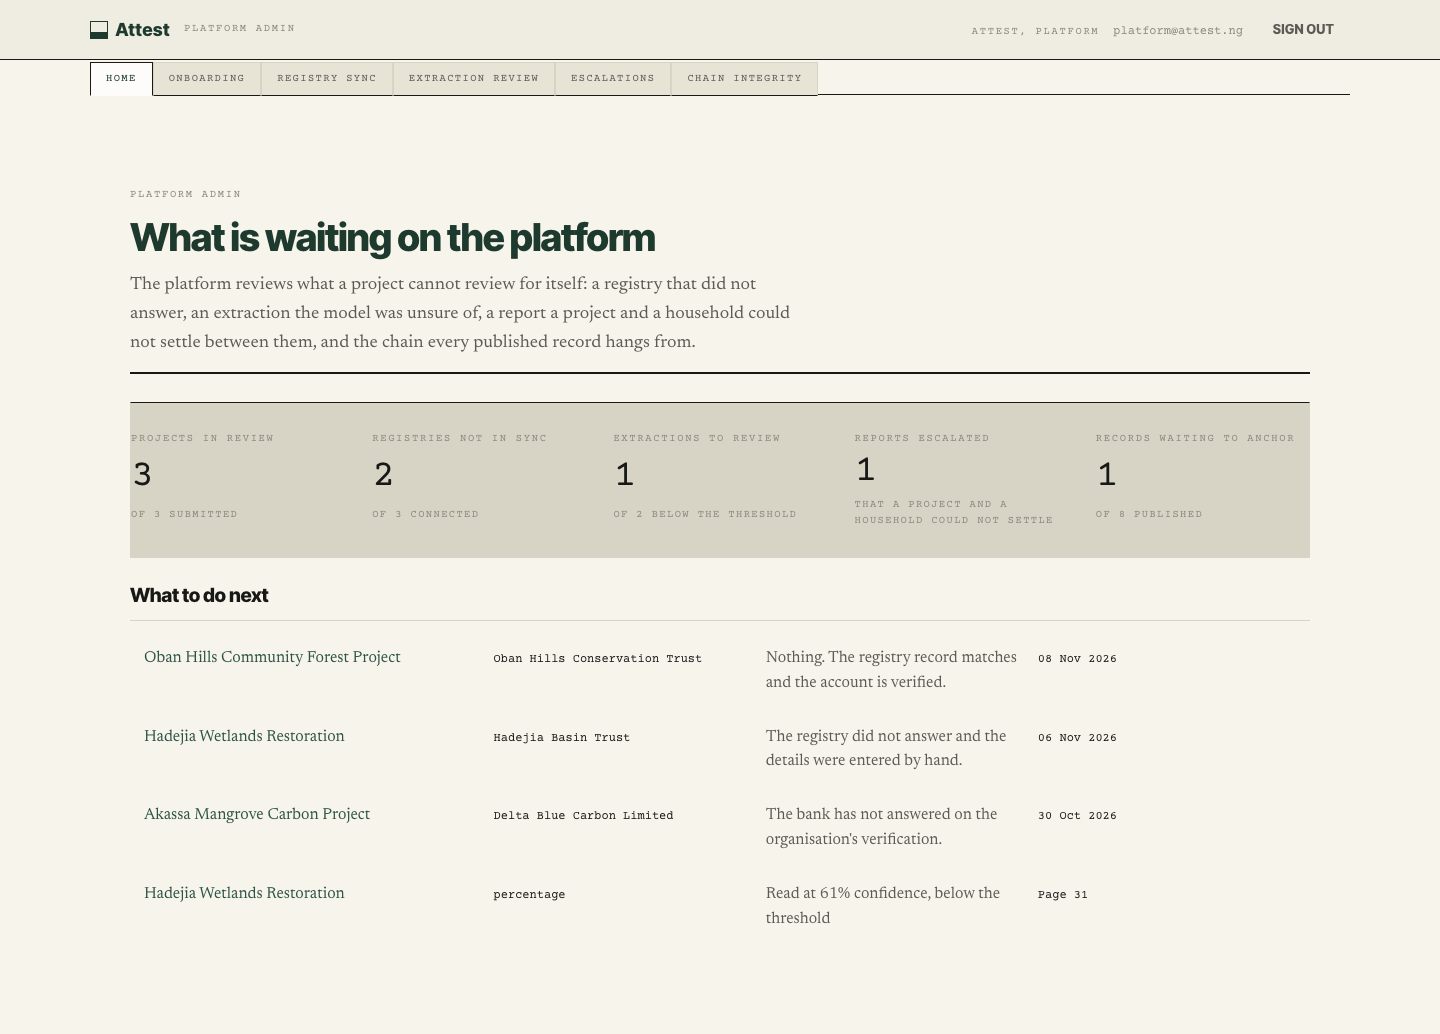
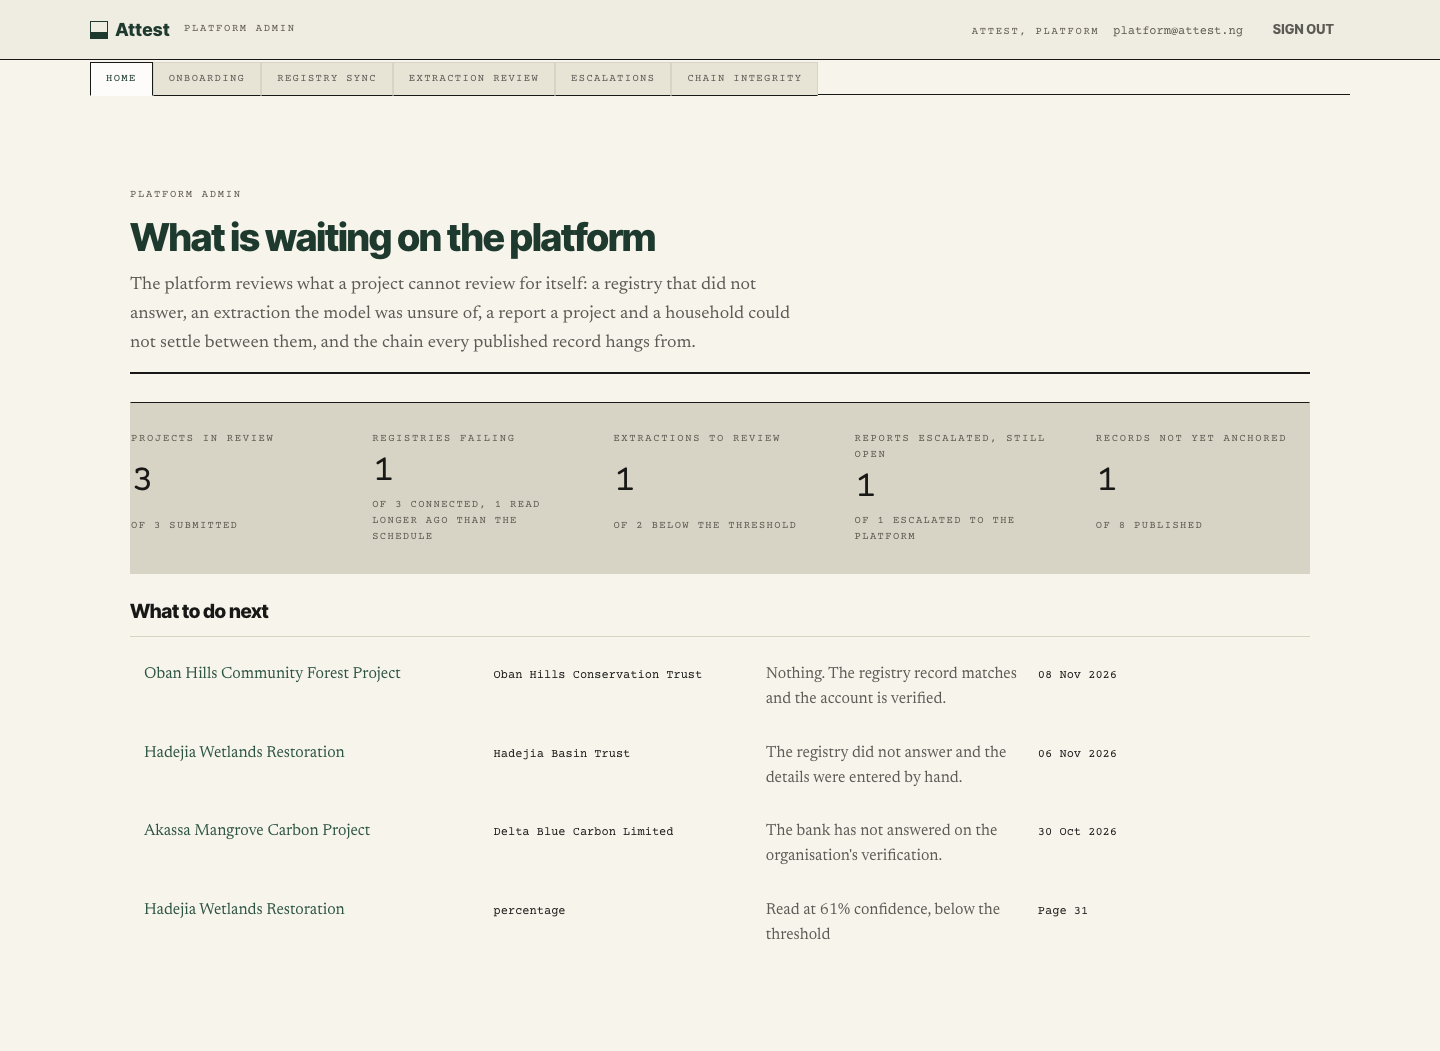
Record F-9's two remediations, 66 of 66
The first verification found fourteen things, chief among them an admin
surface with no controls and a home screen that rendered five refusals as an
all-clear. The second verification, run against the remediation, found
eighteen more — including a focus trap the remediation itself introduced and
the axe filter that had hidden forty serious contrast failures since F-0.
Both rounds are written up in full, the forced chain states are photographed,
and the gate stands at 66 assertions, 130 heavier than the day the phases
first passed it.

diff --git a/verification/index.html b/verification/index.html
@@ -23,7 +23,10 @@
   /* ---- Ink -------------------------------------------------------------- */
   --ink-primary: #181816;
   --ink-muted: #5C5A55;
-  --ink-dim: #8C887E;
+  /* Dim ink that still reads: 4.62:1 on the sunken fill, 6.24:1 on paper.
+     The previous #8C887E sat at 2.38:1 on the sunken fill, which failed WCAG
+     on every eyebrow and every figure's denominator in the product. */
+  --ink-dim: #5E5A52;
   --ink-paper: #F7F4EB; /* ink reversed out on bottle */
 
   /* ---- Bottle green, the anchor tone ------------------------------------ */
@@ -887,12 +890,24 @@ header.sheet { padding-block: var(--section); }
           <h2>Platform admin and hardening</h2>
         </div>
         <p class="gate gate-passed">
-          50 passed, 0 failed in 162.7s
+          66 passed, 0 failed in 214.0s
         </p>
       </div>
       <hr class="heavy" />
 
       <div class="grid">
+        <figure>
+          <a href="F-9/admin-chain-anchor-pending.png"><img src="F-9/admin-chain-anchor-pending.png" alt="/admin/chain/anchor/pending" loading="lazy" /></a>
+          <figcaption>/admin/chain/anchor/pending</figcaption>
+        </figure>
+        <figure>
+          <a href="F-9/admin-chain-anchor-unreachable.png"><img src="F-9/admin-chain-anchor-unreachable.png" alt="/admin/chain/anchor/unreachable" loading="lazy" /></a>
+          <figcaption>/admin/chain/anchor/unreachable</figcaption>
+        </figure>
+        <figure>
+          <a href="F-9/admin-chain-discontinuity.png"><img src="F-9/admin-chain-discontinuity.png" alt="/admin/chain/discontinuity" loading="lazy" /></a>
+          <figcaption>/admin/chain/discontinuity</figcaption>
+        </figure>
         <figure>
           <a href="F-9/admin-chain.png"><img src="F-9/admin-chain.png" alt="/admin/chain" loading="lazy" /></a>
           <figcaption>/admin/chain</figcaption>
@@ -906,8 +921,16 @@ header.sheet { padding-block: var(--section); }
           <figcaption>/admin/extraction</figcaption>
         </figure>
         <figure>
+          <a href="F-9/admin-nothing-was-read.png"><img src="F-9/admin-nothing-was-read.png" alt="/admin/nothing/was/read" loading="lazy" /></a>
+          <figcaption>/admin/nothing/was/read</figcaption>
+        </figure>
+        <figure>
           <a href="F-9/admin-onboarding.png"><img src="F-9/admin-onboarding.png" alt="/admin/onboarding" loading="lazy" /></a>
           <figcaption>/admin/onboarding</figcaption>
+        </figure>
+        <figure>
+          <a href="F-9/admin-one-queue-unread.png"><img src="F-9/admin-one-queue-unread.png" alt="/admin/one/queue/unread" loading="lazy" /></a>
+          <figcaption>/admin/one/queue/unread</figcaption>
         </figure>
         <figure>
           <a href="F-9/admin-registry.png"><img src="F-9/admin-registry.png" alt="/admin/registry" loading="lazy" /></a>

diff --git a/BUILD_LOG.md b/BUILD_LOG.md
@@ -62,8 +62,22 @@ end.
   code. Under 150 means a different stack for that one surface.
 - **The field app at desktop width** renders as a phone-width column rather
   than refusing outright. The phase says "never rendered on desktop".
-- **`--ink-dim` at 2.9:1**, the Farm Africa citation, the synthetic Gold
-  Standard reference, and the Privacy and Terms text.
+- **The Farm Africa citation**, the synthetic Gold Standard reference, and
+  the Privacy and Terms text. (`--ink-dim` was on this list as a contrast
+  decision; the second F-9 verification measured it at 2.38:1 on the sunken
+  fill and it is now `#5E5A52`, 4.62:1 — see below. If the lighter tone
+  mattered to you, that is the one visual change made without you.)
+- **Seven moderate advisories, all one package.** `npm audit` reports seven
+  moderate findings, every one of them GHSA-g3hv-75wg-m249 in `minimatch`
+  3.1.5. It reaches the tree only through `eslint` and `eslint-config-next`,
+  both of them devDependencies: the package is not in any build output and no
+  browser downloads it. The advisory is a regular-expression denial of
+  service against a caller that passes an attacker-controlled glob, and
+  nothing here passes a glob from outside the repository. It is carried
+  rather than fixed because the fix is an `eslint` major bump that would be
+  made for this reason alone, mid-build. The `f9` gate fails if an advisory
+  `npm audit` reports is not named here, and fails outright on anything
+  critical or high.
 - **Deployment, the backend swap and the demo recording**, all three waiting
   on the sandbox.
 
@@ -1564,3 +1578,148 @@ developer; every detail route in the product now carries the back control spec
 patch item 12 asks for; raw record identifiers and action codes are no longer
 reader-facing text; an unresolved exception reads as unresolved rather than as
 unknown; and the plurals hold.
+## F-9 — what the verification found, and what was done about it
+
+Fourteen findings. The gate had passed 50 of 50 and the verification failed
+the phase, which by now is the pattern: a gate asserts what a screen does and
+is blind to what it leaves out.
+
+**The admin surface was a set of lists.** Five queues an operator could read
+and not one control to decide anything: no way to approve a project or send it
+back, no way to accept or correct an extraction, no way to close an escalated
+report. The decisions exist now — `components/admin/ReviewDecision.tsx`, three
+endpoints behind them — and each is refused without its reason: twelve
+characters on a review, twenty-four on the basis a report closes on, which is
+what `DISPUTE_RESOLUTION_BASIS_REQUIRED` was always for. The queues moved to
+module scope in the mock so a decision survives the refresh that follows it; a
+corrected extraction keeps what the model read beside the correction, because
+that reading is the thing the queue exists to make checkable.
+
+**`/admin` reported an all-clear it had no basis for.** Every queue that
+refused was counted as zero, so five refusals rendered as a screen saying
+nothing is waiting — on the one screen whose whole job is to say whether
+anything is. Each figure now stands at an em rule where its queue did not
+answer, the screen says which queues those were, and the empty state
+distinguishes "nothing is waiting" from "nothing is listed, and some queues
+did not answer". "Reports escalated" had no denominator; it reads as open of
+escalated now.
+
+**The chain monitor could not show a break.** `/api/admin/chain` never read
+the forced state, so the one condition the screen exists to alert on was
+unreachable — and `/admin` was absent from `/dev/states` altogether, which is
+why nobody had noticed. The route honours it, the state panel carries twelve
+admin states, and the forced ones are photographed in `verification/F-9/`.
+
+**The sweeps were weaker than they read.**
+
+- The motion sweep could not see seconds. A stylesheet writing `0.25s` wrote
+  six frames in a unit the check had no pattern for, so the frame rule held
+  only over whichever half of the product happened to write milliseconds. It
+  also read `animation-iteration-count` for `infinite` alone, and a count of
+  three is a loop.
+- The copy sweep covered forty-five of the product's sixty-two routes and read
+  only rendered text, so an exclamation mark in an `aria-label` was outside
+  it. All sixty-two now, attributes included, and the verdict test requires
+  its negation within sixty characters of the word it negates rather than
+  anywhere in the sentence.
+- The state sweep counted buttons. It now reads each entry's own href and
+  checks the screen answers — a 404 only where the state is about something
+  missing.
+- The colour-only check read each stamp's glyph into a variable and never
+  looked at it, and never looked at strips at all. Both now. It found a
+  hand-rolled stamp in the live run grid carrying no glyph, and an agent above
+  the flag threshold whose row read "Active".
+- The demo path waited for one server-rendered settled row and called the
+  stream proven, and accepted the word "anchor" appearing anywhere on the
+  record — which the boilerplate below the figures satisfies. It clicks
+  through from the register now, waits for the settled count to rise, forces
+  the period closed, and reads the anchor's state and sequence from the record
+  itself.
+
+**And the smaller ones.** The modal announced itself with `aria-modal` and
+then let the tab key walk out into the page behind it: it moves the focus in,
+holds it, and gives it back now. The account graph had two hundred and
+twenty-five nodes and no tab stop, so the accounts the money moved into are a
+row of buttons beneath the drawing. The seven moderate advisories `npm audit`
+reports are written up under "What is waiting on you", and the gate fails if
+an advisory it reports is not named there. There is a check on the live
+build's own client chunks, because the source grep is a rule about what the
+code says and the bundle is what a browser downloads. And `tsconfig.json` —
+which every build with a custom `distDir` rewrites, and which has broken
+`tsc --noEmit` once per phase for most of this build — is restored by the
+gate after each build.
+
+Gate green, 58 of 58.
+
+## F-9 — the second verification, which failed the remediation
+
+A fresh verifier was pointed at the remediation and found eighteen things,
+four of them the kind that make the first remediation look like what it was:
+work checked by the person who did it.
+
+**The modal focus trap swallowed typed input.** The focus management added in
+the first remediation keyed its effect on an inline callback and a value that
+flips on the first keystroke, so it tore down and re-ran on every keystroke —
+and each re-run moved the focus back to the Close button. An operator
+freezing an account could type exactly one character of the reason. The
+effect is keyed on `open` alone now, reads its callbacks through refs, and
+puts the caret in the first field rather than on Close. The gate now opens a
+dialog, types a sentence, and checks the caret held.
+
+**"Axe-clean" was axe-filtered.** The gate kept only critical violations, and
+under that filter sat forty-odd serious contrast failures — every eyebrow and
+figure denominator in the product, at 2.38:1 on the sunken fill. `--ink-dim`
+is `#5E5A52` now (4.62:1 there, 6.24:1 on paper), sealed labels recede to it
+rather than to a rule colour at 1.9:1, the field shell's content is a `main`
+landmark, and the gate fails on serious as well as critical.
+
+**Ten of the 58 assertions asserted nothing.** `screenshot()` records an
+unconditional pass, so the four forced-state screenshots would have passed
+with the force broken. Each forced screenshot now asserts the marker the
+force exists to show — the break notice, the unread notice — before taking
+the picture.
+
+**The decisions had the right shape and the wrong plumbing.**
+
+- The approval's reason was required, recorded, shipped to the browser — and
+  shown nowhere; two copy strings pointed at each other instead. The reason
+  is on the row now, verbatim, with its date, and the contract declares the
+  fields it was leaking.
+- A returned project went back to "awaiting-review", stamping a submission
+  the platform had just read as one nobody had read. There is a `returned`
+  state.
+- Closing an escalation removed it from the screen in the same breath, so
+  the basis the operator was made to write was unreadable from the surface
+  that wrote it. Decided reports stay listed, closed, basis published.
+- The three controls used constant idempotency keys, so deciding again with
+  a different reason was refused as a duplicate forever. Keys are minted per
+  click, like every other mutating control in the product.
+- Extraction decisions were addressed by project alone; two uncertain
+  extractions on one project would have collided. The field is in the path.
+- Registry sync and the chain had no controls at all — "a screen an operator
+  can act on" was unasserted and false for two of five surfaces. Registry
+  sync has a read-now control; the chain states its own rationale for having
+  none. The gate now drives every decision end to end and reads its effect
+  back off the screen.
+
+**The sweeps, a second time.** The colour-only vocabulary was pooled, so a
+red-edged row reading "Cleared" passed; it is per-state now, and a word that
+asserts the opposite no longer vouches. The state sweep fetched each entry's
+href without running its arrangement; it now clicks all 195 entries the way
+a person would, and a failed arrangement refuses to navigate and says so.
+The bundle check read only static chunks when a secret's likeliest route to
+a browser is the flight payload inlined in the HTML; every route's served
+document is read too. The client-code grep was a hand-fitted glob; client
+code is now whatever declares `"use client"`. The focus check accepted any
+resting box-shadow as a focus ring; it now requires something to change when
+focus arrives. And the admin home and the registry screen gave different
+numbers for the same thing — "not in sync" there, "failing" here — which is
+one predicate now, with stale counted out loud.
+
+**Still true, rechecked:** one author, no trailers, one loop, 0 critical and
+0 high from `npm audit`, the seven moderates carried with their reason, and
+the demo path green ten times.
+
+Gate green, 66 of 66. The count is now 130 assertions heavier than the day
+the phases first passed it, and every one of the additions is a check that an
+earlier version only appeared to make.

diff --git a/BUILD_STATE.md b/BUILD_STATE.md
@@ -19,7 +19,9 @@ Phase complete: F-8 — the bank operations console. Gate green, 54 of 54,
 verified and corrected after a verification that failed it.
 Phase complete: F-9's cluster-free portion — platform admin, the motion, state,
 copy and accessibility sweeps, the hardening checks and the demo path. Gate
-green, 50 of 50.
+green, 66 of 66, verified twice and corrected after each verification failed
+it — the second found the first remediation's own defects, including a focus
+trap it had introduced.
 
 The front-end lane is built. What is left needs the sandbox: deployment, the
 swap from the mock to the real backend, and the demo recording. All three are
@@ -27,7 +29,19 @@ written up in BUILD_LOG.md under F-9.
 
 F-4's verification found fourteen things and all are fixed; its gate went from
 51 assertions to 86. F-5's verification found thirty-one and all are
-addressed; its gate went from 99 to 112.
+addressed; its gate went from 99 to 112. F-9's found fourteen — chief among
+them an admin surface with no controls on it, a home screen that read a
+refusal as an all-clear, and four sweeps weaker than they read — and all are
+addressed; a second verification of the remediation found eighteen more,
+including a focus trap the remediation itself introduced and an axe filter
+that had hidden forty serious contrast failures for nine phases; its gate
+went from 50 to 66, and most of the additions are checks the earlier ones
+only appeared to be.
+
+Every phase that has been independently verified has passed its own gate and
+then failed the verification. The gates now carry roughly 130 assertions
+written in response to that, and the pattern behind every one of them is the
+same: a gate asserts what a screen does, and is blind to what it leaves out.
 
 Spec patch 01 is applied in full.
 
